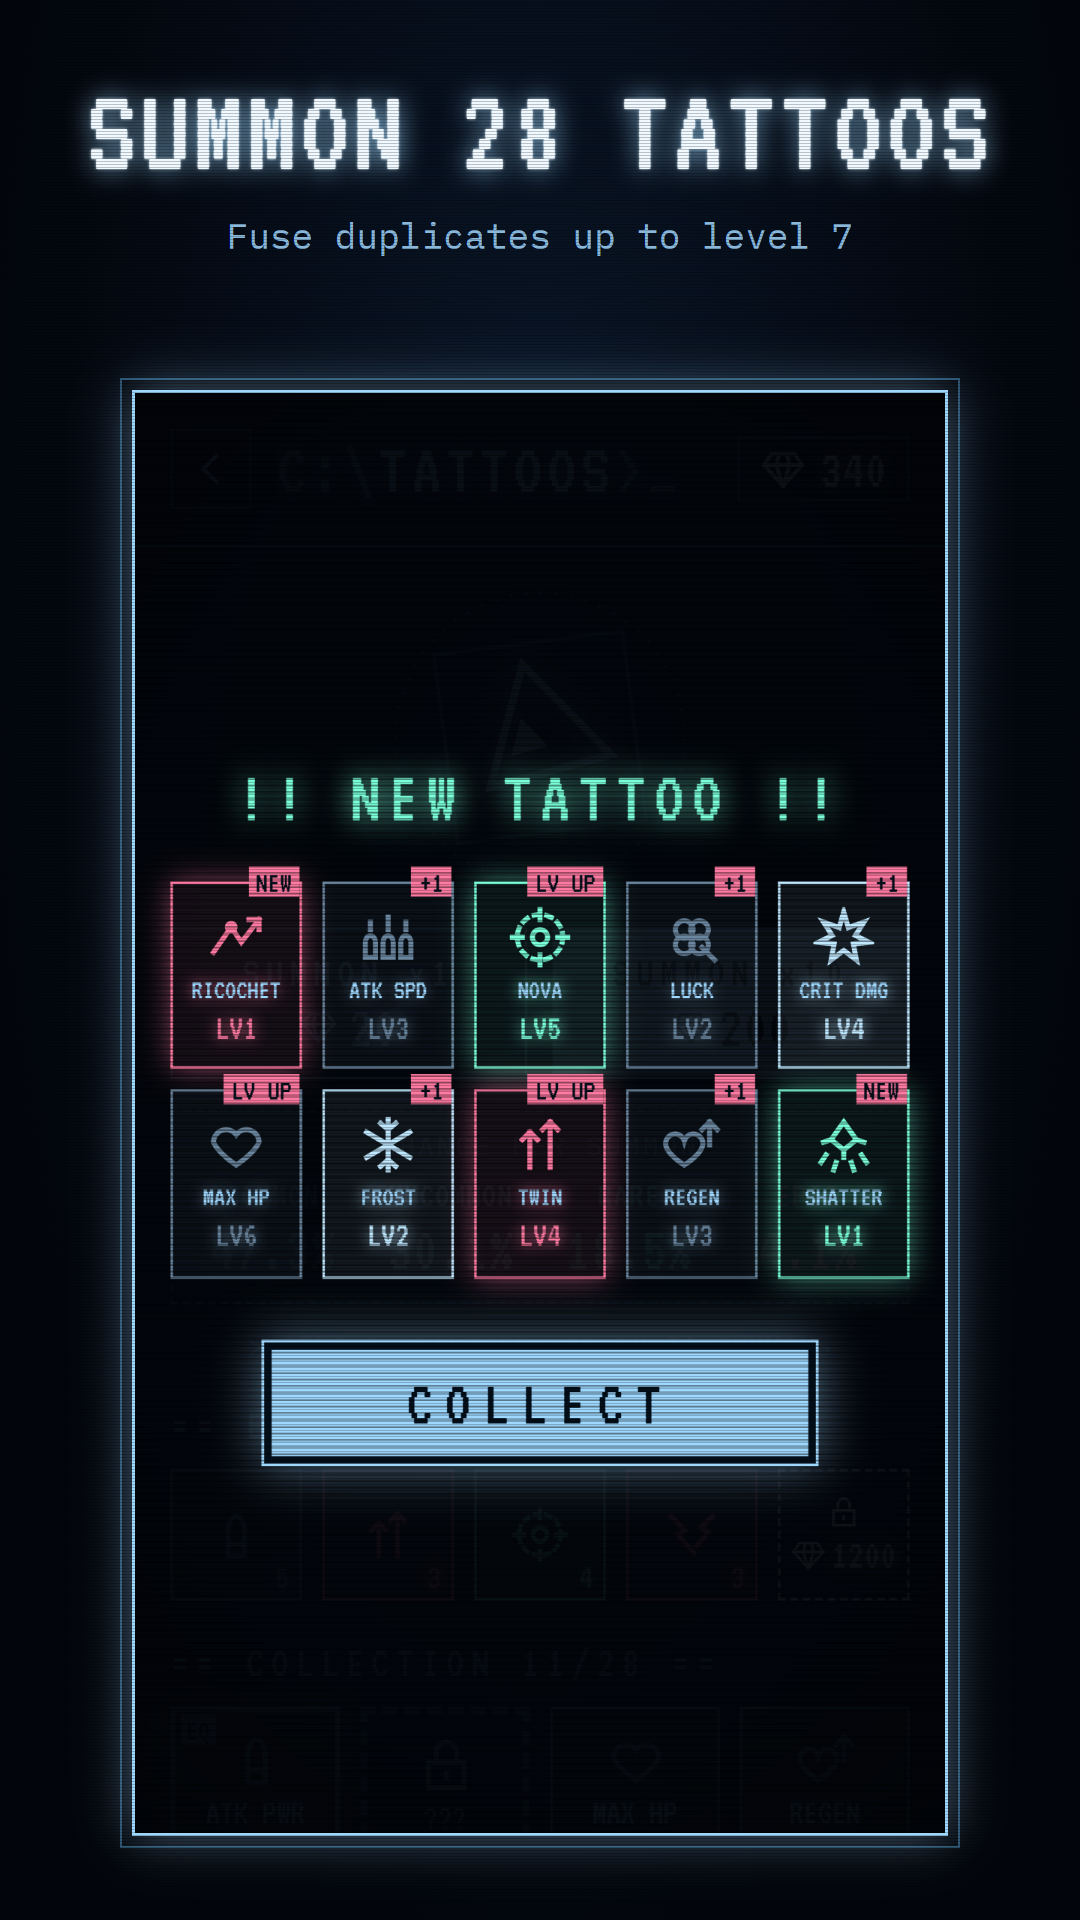
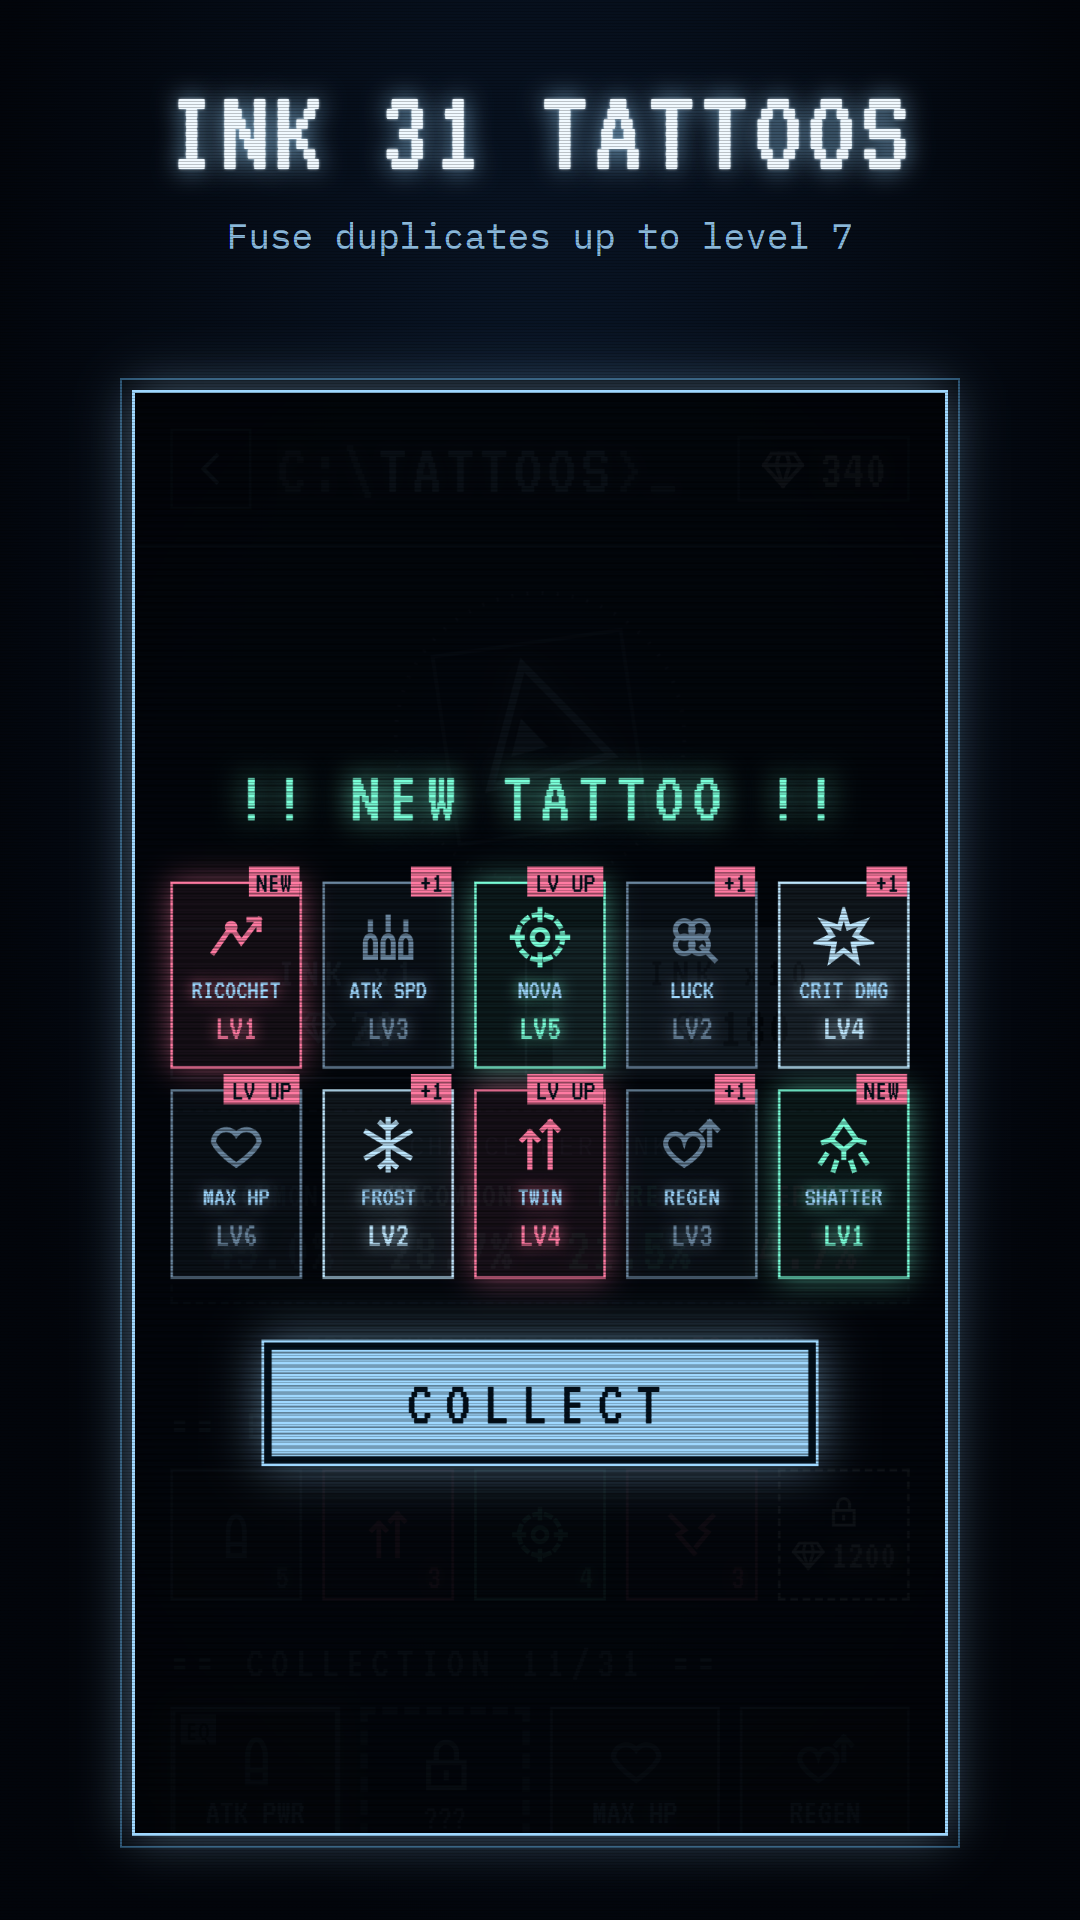
Store art and listing: INK wording, 31 tattoos, bombs mentioned (not uploaded yet: goes up with the bomb release)

Changed region(s): [[0.0611, 0.0312, 0.9167, 0.0938]]

diff --git a/tools/store-text.js b/tools/store-text.js
@@ -4,7 +4,7 @@ module.exports={
   en:{
     run:   ['IDLE TOWER DEFENSE','One triangle. Endless waves. 30 tiers.'],
     boss:  ['ENRAGED BOSSES','Time your abilities: freeze, blast, overdrive'],
-    gacha: ['INK 28 TATTOOS','Fuse duplicates up to level 7'],
+    gacha: ['INK 31 TATTOOS','Fuse duplicates up to level 7'],
     tattoo:['BUILD IT YOUR WAY','Crits, ricochet, lightning, thorns: every build works'],
     shop:  ['UPGRADE EVERYTHING','Damage, fire rate, armor, dodge and more'],
     weekly:['NEW CHALLENGE EVERY WEEK','Rule-changing mutators and gem rewards'],
@@ -14,7 +14,7 @@ module.exports={
   tr:{
     run:   ['IDLE KULE SAVUNMASI','Tek üçgen. Sonsuz dalga. 30 tier.'],
     boss:  ['ÖFKELİ BOSSLAR','Yeteneklerini zamanla: dondur, patlat, hızlan'],
-    gacha: ['28 DÖVME ÇAĞIR','Kopyaları birleştir, 7. seviyeye kadar yükselt'],
+    gacha: ['31 DÖVME ÇAĞIR','Kopyaları birleştir, 7. seviyeye kadar yükselt'],
     tattoo:['TARZINI SEN SEÇ','Kritik, sekme, şimşek, diken: her build işe yarar'],
     shop:  ['HER ŞEYİ GELİŞTİR','Hasar, atış hızı, zırh, kaçınma ve fazlası'],
     weekly:['HER HAFTA YENİ MEYDAN OKUMA','Kuralları değiştiren modlar ve elmas ödülleri'],
@@ -24,7 +24,7 @@ module.exports={
   es:{
     run:   ['DEFENSA DE TORRES IDLE','Un triángulo. Oleadas infinitas. 30 tiers.'],
     boss:  ['JEFES FURIOSOS','Usa tus habilidades a tiempo: congela, revienta, acelera'],
-    gacha: ['INVOCA 28 TATUAJES','Fusiona duplicados hasta el nivel 7'],
+    gacha: ['INVOCA 31 TATUAJES','Fusiona duplicados hasta el nivel 7'],
     tattoo:['CREA TU BUILD','Críticos, rebotes, rayos, espinas: todo build funciona'],
     shop:  ['MEJÓRALO TODO','Daño, cadencia, blindaje, esquiva y más'],
     weekly:['UN RETO NUEVO CADA SEMANA','Mutadores que cambian las reglas y premios en gemas'],
@@ -34,7 +34,7 @@ module.exports={
   pt:{
     run:   ['DEFESA DE TORRE IDLE','Um triângulo. Ondas infinitas. 30 tiers.'],
     boss:  ['CHEFES FURIOSOS','Use suas habilidades na hora certa: congele, exploda, acelere'],
-    gacha: ['INVOQUE 28 TATUAGENS','Funda duplicatas até o nível 7'],
+    gacha: ['INVOQUE 31 TATUAGENS','Funda duplicatas até o nível 7'],
     tattoo:['MONTE SUA BUILD','Críticos, ricochete, raios, espinhos: toda build funciona'],
     shop:  ['MELHORE TUDO','Dano, cadência, armadura, esquiva e mais'],
     weekly:['UM DESAFIO NOVO POR SEMANA','Mutadores que mudam as regras e prêmios em gemas'],

diff --git a/store/listing.md b/store/listing.md
@@ -32,7 +32,7 @@ Your triangle aims and fires on its own; you decide how it grows. Play actively 
 Pour coins into permanent upgrades: damage, fire rate, crits, multishot, ricochet, pierce, armor, thorns, regen, dodge, slow, knockback and more. A wall of thorns and armor, a crit cannon, a swarm of bouncing bullets — every build is viable.
 
 ▸ TATTOOS
-Ink 28 tattoos across four rarities and fuse duplicates up to level 7. Passive tattoos shape your build; active ones add a button to the battle: freeze the field, blast every enemy, overdrive your fire rate or turn kills into gold; others shatter frozen enemies into chain reactions. The odds are shown on screen and an epic is guaranteed within 50 summons.
+Ink 31 tattoos across four rarities and fuse duplicates up to level 7. Passive tattoos shape your build; active ones add a button to the battle: freeze the field, blast every enemy, overdrive your fire rate, turn kills into gold or throw bombs (logic, goo, virus) exactly where you tap; others shatter frozen enemies into chain reactions. The odds are shown on screen and an epic is guaranteed within 50 summons.
 
 ▸ ENDLESS WAVES, 30 TIERS
 Fight through 30 tiers of rising danger: runners, tanks, splitters, shielded wardens, healing menders, teleporting blinkers and enraged bosses that call in reinforcements. Earn mastery stars in every tier for permanent bonuses.
@@ -73,7 +73,7 @@ Retro bir CRT terminalinde idle kule savunma: sen son köşesin, ekranın altın
 Altınlarını kalıcı geliştirmelere yatır: hasar, atış hızı, kritik, çoklu atış, sekme, delme, zırh, diken, can yenileme, kaçınma, yavaşlatma, geri itme ve fazlası. Diken ve zırhtan bir duvar, bir kritik topu, seken mermi sürüsü — her build işe yarar.
 
 ▸ DÖVMELER
-Dört nadirlikte 28 dövme çağır, kopyaları birleştirip 7. seviyeye kadar yükselt. Pasif dövmeler build'ini şekillendirir; aktif olanlar savaşa bir buton ekler: sahayı dondur, tüm düşmanları patlat, atış hızını uçur ya da öldürmeleri altına çevir. Bazıları donmuş düşmanları zincirleme patlamalarla parçalar. Oranlar ekranda yazar ve 50 çağırma içinde bir epik garantidir.
+Dört nadirlikte 31 dövme çağır, kopyaları birleştirip 7. seviyeye kadar yükselt. Pasif dövmeler build'ini şekillendirir; aktif olanlar savaşa bir buton ekler: sahayı dondur, tüm düşmanları patlat, atış hızını uçur, öldürmeleri altına çevir ya da dokunduğun yere bomba at (mantık, çamur, virüs). Bazıları donmuş düşmanları zincirleme patlamalarla parçalar. Oranlar ekranda yazar ve 50 çağırma içinde bir epik garantidir.
 
 ▸ SONSUZ DALGALAR, 30 TIER
 Giderek zorlaşan 30 tier boyunca savaş: koşucular, tanklar, bölünenler, kalkanlı muhafızlar, iyileştiren şifacılar, ışınlanan düşmanlar ve takviye çağıran öfkeli bosslar. Her tier'da ustalık yıldızları kazan, kalıcı bonuslar aç.
@@ -114,7 +114,7 @@ Tu triángulo apunta y dispara solo; tú decides cómo crece. Juega de forma act
 Invierte monedas en mejoras permanentes: daño, cadencia, críticos, disparo múltiple, rebote, perforación, blindaje, espinas, regeneración, esquiva, ralentización, empuje y más. Un muro de espinas y blindaje, un cañón de críticos, un enjambre de balas que rebotan: todo build funciona.
 
 ▸ TATUAJES
-Invoca 28 tatuajes de cuatro rarezas y fusiona duplicados hasta el nivel 7. Los pasivos dan forma a tu build; los activos añaden un botón a la batalla: congela el campo, revienta a todos los enemigos, dispara a toda velocidad o convierte las bajas en oro. Otros hacen estallar a los enemigos congelados en reacciones en cadena. Las probabilidades se muestran en pantalla y hay un épico garantizado en 50 invocaciones.
+Invoca 31 tatuajes de cuatro rarezas y fusiona duplicados hasta el nivel 7. Los pasivos dan forma a tu build; los activos añaden un botón a la batalla: congela el campo, revienta a todos los enemigos, dispara a toda velocidad, convierte las bajas en oro o lanza bombas (lógica, viscosa, virus) justo donde toques. Otros hacen estallar a los enemigos congelados en reacciones en cadena. Las probabilidades se muestran en pantalla y hay un épico garantizado en 50 invocaciones.
 
 ▸ OLEADAS INFINITAS, 30 TIERS
 Lucha a través de 30 tiers cada vez más peligrosos: corredores, tanques, divisores, guardianes con escudo, sanadores, enemigos que se teletransportan y jefes furiosos que piden refuerzos. Gana estrellas de maestría en cada tier para obtener bonus permanentes.
@@ -155,7 +155,7 @@ Seu triângulo mira e atira sozinho; você decide como ele cresce. Jogue de form
 Invista moedas em melhorias permanentes: dano, cadência, críticos, tiro múltiplo, ricochete, perfuração, armadura, espinhos, regeneração, esquiva, lentidão, empurrão e mais. Um muro de espinhos e armadura, um canhão de críticos, um enxame de balas quicando: toda build funciona.
 
 ▸ TATUAGENS
-Invoque 28 tatuagens de quatro raridades e funda duplicatas até o nível 7. As passivas moldam sua build; as ativas colocam um botão na batalha: congele o campo, exploda todos os inimigos, acelere seus disparos ou transforme abates em ouro. Outras estilhaçam inimigos congelados em reações em cadeia. As chances aparecem na tela e uma épica é garantida em até 50 invocações.
+Invoque 31 tatuagens de quatro raridades e funda duplicatas até o nível 7. As passivas moldam sua build; as ativas colocam um botão na batalha: congele o campo, exploda todos os inimigos, acelere seus disparos, transforme abates em ouro ou lance bombas (lógica, viscosa, vírus) bem onde você tocar. Outras estilhaçam inimigos congelados em reações em cadeia. As chances aparecem na tela e uma épica é garantida em até 50 invocações.
 
 ▸ ONDAS INFINITAS, 30 TIERS
 Lute por 30 tiers cada vez mais perigosos: corredores, tanques, divisores, guardiões com escudo, curandeiros, inimigos que se teletransportam e chefes furiosos que chamam reforços. Ganhe estrelas de maestria em cada tier para bônus permanentes.
